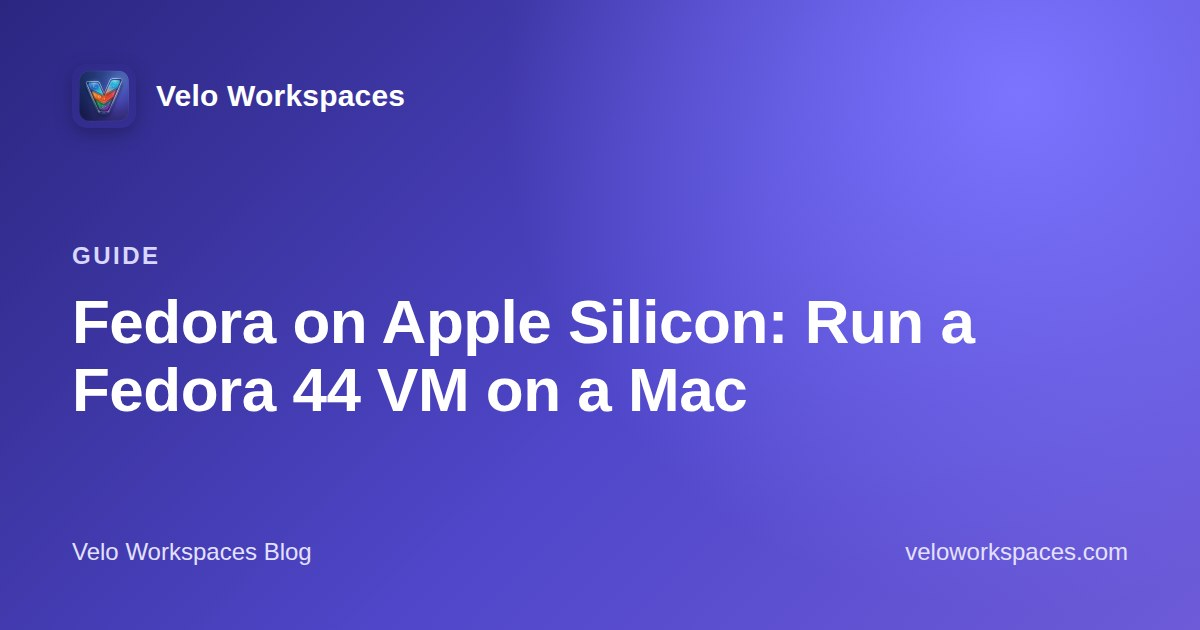
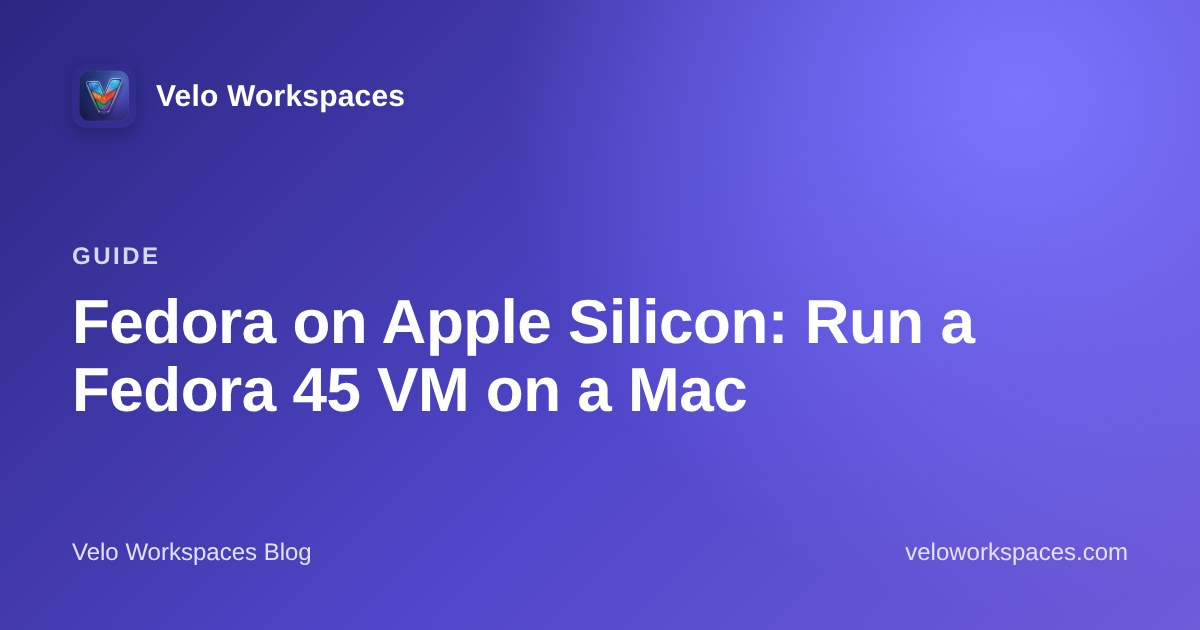
Fedora 45 in the catalog copy: home, support FAQ and the two Fedora posts
For the app update that makes Fedora 45 the recommended release and keeps 44.
Screenshot captions and alt text still say 44, which is what they show, and
the kickstart guide says so. Sitemap dates: the localized pages changed in
substance, and Laterwise's constant now matches the date already published.

Claude-Session: https://claude.ai/code/session_014cbiM6yJ1wpfjF88T3VKNy

diff --git a/blog/fedora-vm-mac-automatic-install/index.html b/blog/fedora-vm-mac-automatic-install/index.html
@@ -4,7 +4,7 @@
 <meta charset="utf-8">
 <meta name="viewport" content="width=device-width, initial-scale=1">
 <title>Fedora VM on a Mac: Automatic Kickstart Install Walkthrough</title>
-<meta name="description" content="Step by step with screenshots: install Fedora 44 Server in Velo Workspaces with a kickstart it writes for you, then sign in over SSH. Rocky Linux too.">
+<meta name="description" content="Step by step with screenshots: install Fedora 45 Server in Velo Workspaces with a kickstart it writes for you, then sign in over SSH. Rocky Linux too.">
 <link rel="canonical" href="https://www.veloworkspaces.com/blog/fedora-vm-mac-automatic-install/">
 <link rel="icon" type="image/png" href="/assets/icon.png">
 <link rel="stylesheet" href="/assets/style.css?v=6">
@@ -12,7 +12,7 @@
 <meta property="og:type" content="article">
 <meta property="og:site_name" content="Velo Workspaces">
 <meta property="og:title" content="Fedora VM on a Mac: Automatic Kickstart Install Walkthrough">
-<meta property="og:description" content="Step by step with screenshots: install Fedora 44 Server in Velo Workspaces with a kickstart it writes for you, then sign in over SSH. Rocky Linux too.">
+<meta property="og:description" content="Step by step with screenshots: install Fedora 45 Server in Velo Workspaces with a kickstart it writes for you, then sign in over SSH. Rocky Linux too.">
 <meta property="og:url" content="https://www.veloworkspaces.com/blog/fedora-vm-mac-automatic-install/">
 <meta property="og:image" content="https://www.veloworkspaces.com/assets/og/fedora-vm-mac-automatic-install.jpg">
 <meta property="og:image:width" content="1200">
@@ -20,7 +20,7 @@
 <meta property="og:image:alt" content="Install Fedora Server in a Mac VM with an Automatic Kickstart">
 <meta name="twitter:card" content="summary_large_image">
 <meta property="article:published_time" content="2026-09-29">
-<meta property="article:modified_time" content="2026-10-02">
+<meta property="article:modified_time" content="2026-11-16">
 <meta property="article:author" content="Gaoliang Luo">
 <script type="application/ld+json">
 {
@@ -30,13 +30,13 @@
       "@type": "BlogPosting",
       "headline": "Fedora VM on a Mac: Automatic Kickstart Install Walkthrough",
       "name": "Install Fedora Server in a Mac VM with an Automatic Kickstart",
-      "description": "Step by step with screenshots: install Fedora 44 Server in Velo Workspaces with a kickstart it writes for you, then sign in over SSH. Rocky Linux too.",
+      "description": "Step by step with screenshots: install Fedora 45 Server in Velo Workspaces with a kickstart it writes for you, then sign in over SSH. Rocky Linux too.",
       "image": [
         "https://www.veloworkspaces.com/assets/og/fedora-vm-mac-automatic-install.jpg",
         "https://www.veloworkspaces.com/assets/blog/guides/fedora/terminal.webp"
       ],
       "datePublished": "2026-09-29",
-      "dateModified": "2026-10-02",
+      "dateModified": "2026-11-16",
       "author": {
         "@type": "Person",
         "name": "Gaoliang Luo",
@@ -114,8 +114,8 @@
       <div class="article-header">
         <span class="eyebrow">Step-by-step guide</span>
         <h1>Install Fedora Server in a Mac VM with an Automatic Kickstart</h1>
-        <p class="article-lede">Fedora's Anaconda installer can run from a kickstart file without asking anything. Velo Workspaces writes that file for you, from the account you enter and your Mac's settings. Here's a Fedora 44 Server install from start to finish. Rocky Linux works the same way.</p>
-        <p class="article-meta">By Gaoliang Luo · Published <time datetime="2026-09-29">September 29, 2026</time> · Updated <time datetime="2026-10-02">October 2, 2026</time><span class="article-readtime">2 min read</span></p>
+        <p class="article-lede">Fedora's Anaconda installer can run from a kickstart file without asking anything. Velo Workspaces writes that file for you, from the account you enter and your Mac's settings. Here's a Fedora Server install from start to finish, with screenshots from Fedora 44; Fedora 45, now the newest release, takes the same steps. Rocky Linux works the same way.</p>
+        <p class="article-meta">By Gaoliang Luo · Published <time datetime="2026-09-29">September 29, 2026</time> · Updated <time datetime="2026-11-16">November 16, 2026</time><span class="article-readtime">2 min read</span></p>
       </div>
       <figure class="shot article-hero">
         <a class="shot-frame" href="/assets/blog/guides/fedora/terminal.webp"><img src="/assets/blog/guides/fedora/terminal.webp" width="892" height="647" alt="A Fedora 44 Server workspace in Velo Workspaces, with its console and the built-in terminal signed in" fetchpriority="high"><span class="shot-zoom">Click to enlarge</span></a>
@@ -141,7 +141,7 @@
     <div class="container article-body">
       <dl class="guide-facts">
         <div><dt>Your time</dt><dd>About 2 minutes<span>Anaconda runs on its own</span></dd></div>
-        <div><dt>Download</dt><dd>About 1.3 GB<span>Fedora 44 Server netinst ISO</span></dd></div>
+        <div><dt>Download</dt><dd>About 1.3 GB<span>Fedora Server netinst ISO</span></dd></div>
         <div><dt>You get</dt><dd>Fedora Server<span>account, keys and Cockpit</span></dd></div>
         <div><dt>Same steps for</dt><dd>Rocky Linux<span>9 and 10, minimal or DVD</span></dd></div>
       </dl>
@@ -159,7 +159,7 @@
 
       <section class="guide-step">
       <h2 id="choose-fedora-server">Choose Fedora Server</h2>
-      <p>Choose <strong>Fedora</strong> and release 44. There are three ISOs. <strong>Server</strong> and <strong>Everything</strong> are network installers that Velo Workspaces can drive on its own; <strong>Workstation</strong> is a live desktop image you install by hand. Download Server.</p>
+      <p>Choose <strong>Fedora</strong> and a release: 45 is the newest, and 44 is still offered (the screenshots here show 44). There are three ISOs. <strong>Server</strong> and <strong>Everything</strong> are network installers that Velo Workspaces can drive on its own; <strong>Workstation</strong> is a live desktop image you install by hand. Download Server.</p>
       <figure class="shot">
         <a class="shot-frame" href="/assets/blog/guides/fedora/choose-installer.webp"><img src="/assets/blog/guides/fedora/choose-installer.webp" width="644" height="600" alt="Choose an Installer step with Fedora 44 Server, Everything and Workstation ISOs" loading="lazy" decoding="async"><span class="shot-zoom">Click to enlarge</span></a>
         <figcaption><span>Fedora 44's Server, Everything and Workstation images, from download.fedoraproject.org.</span></figcaption>

diff --git a/blog/fedora-on-apple-silicon/index.html b/blog/fedora-on-apple-silicon/index.html
@@ -3,16 +3,16 @@
 <head>
 <meta charset="utf-8">
 <meta name="viewport" content="width=device-width, initial-scale=1">
-<title>Fedora on Apple Silicon: Run a Fedora 44 VM on a Mac</title>
-<meta name="description" content="Run Fedora 44 on an M-series Mac from the Cloud Base image or a hands-free Server install, and what&#x27;s different: SELinux, NetworkManager and Rosetta.">
+<title>Fedora on Apple Silicon: Run a Fedora 45 VM on a Mac</title>
+<meta name="description" content="Run Fedora 45 on an M-series Mac from the Cloud Base image or a hands-free Server install, and what&#x27;s different: SELinux, NetworkManager and Rosetta.">
 <link rel="canonical" href="https://www.veloworkspaces.com/blog/fedora-on-apple-silicon/">
 <link rel="icon" type="image/png" href="/assets/icon.png">
 <link rel="stylesheet" href="/assets/style.css?v=6">
 <link rel="alternate" type="application/rss+xml" title="Velo Workspaces Blog" href="https://www.veloworkspaces.com/blog/feed.xml">
 <meta property="og:type" content="article">
 <meta property="og:site_name" content="Velo Workspaces">
-<meta property="og:title" content="Fedora on Apple Silicon: Run a Fedora 44 VM on a Mac">
-<meta property="og:description" content="Run Fedora 44 on an M-series Mac from the Cloud Base image or a hands-free Server install, and what&#x27;s different: SELinux, NetworkManager and Rosetta.">
+<meta property="og:title" content="Fedora on Apple Silicon: Run a Fedora 45 VM on a Mac">
+<meta property="og:description" content="Run Fedora 45 on an M-series Mac from the Cloud Base image or a hands-free Server install, and what&#x27;s different: SELinux, NetworkManager and Rosetta.">
 <meta property="og:url" content="https://www.veloworkspaces.com/blog/fedora-on-apple-silicon/">
 <meta property="og:image" content="https://www.veloworkspaces.com/assets/og/fedora-on-apple-silicon.jpg">
 <meta property="og:image:width" content="1200">
@@ -20,7 +20,7 @@
 <meta property="og:image:alt" content="Running Fedora on Apple Silicon: What&#x27;s Different">
 <meta name="twitter:card" content="summary_large_image">
 <meta property="article:published_time" content="2026-09-20">
-<meta property="article:modified_time" content="2026-10-02">
+<meta property="article:modified_time" content="2026-11-16">
 <meta property="article:author" content="Gaoliang Luo">
 <script type="application/ld+json">
 {
@@ -28,12 +28,12 @@
   "@graph": [
     {
       "@type": "BlogPosting",
-      "headline": "Fedora on Apple Silicon: Run a Fedora 44 VM on a Mac",
+      "headline": "Fedora on Apple Silicon: Run a Fedora 45 VM on a Mac",
       "name": "Running Fedora on Apple Silicon: What's Different",
-      "description": "Run Fedora 44 on an M-series Mac from the Cloud Base image or a hands-free Server install, and what's different: SELinux, NetworkManager and Rosetta.",
+      "description": "Run Fedora 45 on an M-series Mac from the Cloud Base image or a hands-free Server install, and what's different: SELinux, NetworkManager and Rosetta.",
       "image": "https://www.veloworkspaces.com/assets/og/fedora-on-apple-silicon.jpg",
       "datePublished": "2026-09-20",
-      "dateModified": "2026-10-02",
+      "dateModified": "2026-11-16",
       "author": {
         "@type": "Person",
         "name": "Gaoliang Luo",
@@ -112,7 +112,7 @@
         <span class="eyebrow">Guide</span>
         <h1>Running Fedora on Apple Silicon: What's Different</h1>
         <p class="article-lede">Third in the series on specific distributions. Fedora runs natively on arm64 like Ubuntu and Debian, installs without a single question in Velo Workspaces 1.2, and has defaults that differ from both in ways that matter.</p>
-        <p class="article-meta">By Gaoliang Luo · Published <time datetime="2026-09-20">September 20, 2026</time> · Updated <time datetime="2026-10-02">October 2, 2026</time><span class="article-readtime">3 min read</span></p>
+        <p class="article-meta">By Gaoliang Luo · Published <time datetime="2026-09-20">September 20, 2026</time> · Updated <time datetime="2026-11-16">November 16, 2026</time><span class="article-readtime">3 min read</span></p>
       </div>
       <details class="article-toc">
         <summary>In this article</summary>
@@ -134,11 +134,11 @@
         <p><strong>Step by step, with screenshots:</strong> <a href="/blog/fedora-vm-mac-automatic-install/">install Fedora Server with an automatic kickstart</a>, from download to an SSH session.</p>
       </div>
       <h2 id="native-arm64-and-only-arm64-on-arm">Native arm64, and only arm64 on ARM</h2>
-      <p>Fedora on an Apple silicon Mac runs natively on arm64, like <a href="/blog/ubuntu-on-apple-silicon/">Ubuntu</a> and <a href="/blog/debian-on-apple-silicon/">Debian</a>. Fedora Linux 44 ships for x86_64 and aarch64. 32-bit ARM was dropped some releases ago, so on ARM there's one build to choose.</p>
+      <p>Fedora on an Apple silicon Mac runs natively on arm64, like <a href="/blog/ubuntu-on-apple-silicon/">Ubuntu</a> and <a href="/blog/debian-on-apple-silicon/">Debian</a>. Fedora Linux 45 ships for x86_64 and aarch64. 32-bit ARM was dropped some releases ago, so on ARM there's one build to choose.</p>
 
       <h2 id="three-ways-in">Three ways in</h2>
       <ul>
-        <li><strong>Cloud image.</strong> Fedora 44 Cloud Base, downloaded from fedoraproject.org and checked against Fedora's published checksum. cloud-init creates your account and adds this Mac's SSH key on first boot, and it's ready in about a minute. The quickest way to a headless Fedora.</li>
+        <li><strong>Cloud image.</strong> Fedora 45 Cloud Base (44 is still offered), downloaded from fedoraproject.org and checked against Fedora's published checksum. cloud-init creates your account and adds this Mac's SSH key on first boot, and it's ready in about a minute. The quickest way to a headless Fedora.</li>
         <li><strong>Automatic install.</strong> Choose <strong>Installer image</strong>, pick Fedora Server or Everything, and leave <strong>Automatic installation</strong> on. Velo Workspaces writes a kickstart file to a small disk labelled <code>OEMDRV</code>, which Anaconda picks up by itself. There's no confirmation step at all: the install runs start to finish and the workspace restarts into Fedora.</li>
         <li><strong>Workstation, by hand.</strong> Fedora Workstation's live image doesn't support kickstart, so it installs interactively in the workspace's display. Pick it when you want the GNOME desktop.</li>
       </ul>

diff --git a/ja/support/index.html b/ja/support/index.html
@@ -39,7 +39,7 @@
       "name": "クラウドイメージから作成できる Linux は？",
       "acceptedAnswer": {
         "@type": "Answer",
-        "text": "Ubuntu 26.04 / 24.04 LTS、Debian 13 / 12、Fedora 44 Cloud Base、Rocky Linux 10 / 9 です。Velo Workspaces が配布元の公式イメージをダウンロードし、初回起動時に cloud-init がアカウントとこの Mac の SSH 鍵を設定します。通常は約 1 分で使えます。"
+        "text": "Ubuntu 26.04 / 24.04 LTS、Debian 13 / 12、Fedora 45 / 44 Cloud Base、Rocky Linux 10 / 9 です。Velo Workspaces が配布元の公式イメージをダウンロードし、初回起動時に cloud-init がアカウントとこの Mac の SSH 鍵を設定します。通常は約 1 分で使えます。"
       }
     },
     {
@@ -230,7 +230,7 @@
         <details class="faq-item">
           <summary>クラウドイメージから作成できる Linux は？</summary>
           <div class="faq-answer">
-            <p>Ubuntu 26.04 / 24.04 LTS、Debian 13 / 12、Fedora 44 Cloud Base、Rocky Linux 10 / 9 です。アプリは配布元の公式イメージをダウンロードし、Apple の Virtualization フレームワーク用に変換して、ユーザ名、パスワード、この Mac の SSH 鍵、ホスト名を cloud-init に渡します。初回起動時にシステムが自動で設定を行い、選んだディスクサイズまで拡張されます。ダウンロード後、たいてい約 1 分でログインできます。</p>
+            <p>Ubuntu 26.04 / 24.04 LTS、Debian 13 / 12、Fedora 45 / 44 Cloud Base、Rocky Linux 10 / 9 です。アプリは配布元の公式イメージをダウンロードし、Apple の Virtualization フレームワーク用に変換して、ユーザ名、パスワード、この Mac の SSH 鍵、ホスト名を cloud-init に渡します。初回起動時にシステムが自動で設定を行い、選んだディスクサイズまで拡張されます。ダウンロード後、たいてい約 1 分でログインできます。</p>
           </div>
         </details>
         <details class="faq-item">

diff --git a/fr/support/index.html b/fr/support/index.html
@@ -39,7 +39,7 @@
       "name": "Quels systèmes Linux puis-je créer à partir d'une image cloud ?",
       "acceptedAnswer": {
         "@type": "Answer",
-        "text": "Ubuntu 26.04 et 24.04 LTS, Debian 13 et 12, Fedora 44 Cloud Base, et Rocky Linux 10 et 9. Velo Workspaces télécharge l'image officielle de l'éditeur, et cloud-init configure votre compte et la clé SSH de ce Mac au premier démarrage, en général en une minute environ."
+        "text": "Ubuntu 26.04 et 24.04 LTS, Debian 13 et 12, Fedora 45 et 44 Cloud Base, et Rocky Linux 10 et 9. Velo Workspaces télécharge l'image officielle de l'éditeur, et cloud-init configure votre compte et la clé SSH de ce Mac au premier démarrage, en général en une minute environ."
       }
     },
     {
@@ -230,7 +230,7 @@
         <details class="faq-item">
           <summary>Quels systèmes Linux puis-je créer à partir d'une image cloud ?</summary>
           <div class="faq-answer">
-            <p>Ubuntu 26.04 et 24.04 LTS, Debian 13 et 12, Fedora 44 Cloud Base, et Rocky Linux 10 et 9. L'app télécharge l'image officielle de l'éditeur, la convertit pour le framework Virtualization d'Apple et transmet à cloud-init votre nom d'utilisateur, votre mot de passe, la clé SSH de ce Mac et un nom d'hôte. Au premier démarrage, le système se configure seul et s'étend à la taille de disque choisie. Une fois le téléchargement terminé, il est en général prêt en une minute environ.</p>
+            <p>Ubuntu 26.04 et 24.04 LTS, Debian 13 et 12, Fedora 45 et 44 Cloud Base, et Rocky Linux 10 et 9. L'app télécharge l'image officielle de l'éditeur, la convertit pour le framework Virtualization d'Apple et transmet à cloud-init votre nom d'utilisateur, votre mot de passe, la clé SSH de ce Mac et un nom d'hôte. Au premier démarrage, le système se configure seul et s'étend à la taille de disque choisie. Une fois le téléchargement terminé, il est en général prêt en une minute environ.</p>
           </div>
         </details>
         <details class="faq-item">

diff --git a/ko/support/index.html b/ko/support/index.html
@@ -39,7 +39,7 @@
       "name": "클라우드 이미지로 만들 수 있는 Linux는 무엇인가요?",
       "acceptedAnswer": {
         "@type": "Answer",
-        "text": "Ubuntu 26.04·24.04 LTS, Debian 13·12, Fedora 44 Cloud Base, Rocky Linux 10·9입니다. Velo Workspaces가 배포처의 공식 이미지를 내려받고, 처음 부팅할 때 cloud-init이 계정과 이 Mac의 SSH 키를 설정합니다. 보통 1분 정도 걸립니다."
+        "text": "Ubuntu 26.04·24.04 LTS, Debian 13·12, Fedora 45·44 Cloud Base, Rocky Linux 10·9입니다. Velo Workspaces가 배포처의 공식 이미지를 내려받고, 처음 부팅할 때 cloud-init이 계정과 이 Mac의 SSH 키를 설정합니다. 보통 1분 정도 걸립니다."
       }
     },
     {
@@ -230,7 +230,7 @@
         <details class="faq-item">
           <summary>클라우드 이미지로 만들 수 있는 Linux는 무엇인가요?</summary>
           <div class="faq-answer">
-            <p>Ubuntu 26.04·24.04 LTS, Debian 13·12, Fedora 44 Cloud Base, Rocky Linux 10·9입니다. 앱이 배포처의 공식 이미지를 내려받아 Apple Virtualization 프레임워크용으로 변환하고, 사용자 이름, 암호, 이 Mac의 SSH 키, 호스트 이름을 cloud-init에 넘깁니다. 처음 부팅할 때 시스템이 스스로 설정을 마치고 선택한 디스크 크기까지 늘어납니다. 다운로드가 끝나면 보통 1분 정도 뒤 로그인할 수 있습니다.</p>
+            <p>Ubuntu 26.04·24.04 LTS, Debian 13·12, Fedora 45·44 Cloud Base, Rocky Linux 10·9입니다. 앱이 배포처의 공식 이미지를 내려받아 Apple Virtualization 프레임워크용으로 변환하고, 사용자 이름, 암호, 이 Mac의 SSH 키, 호스트 이름을 cloud-init에 넘깁니다. 처음 부팅할 때 시스템이 스스로 설정을 마치고 선택한 디스크 크기까지 늘어납니다. 다운로드가 끝나면 보통 1분 정도 뒤 로그인할 수 있습니다.</p>
           </div>
         </details>
         <details class="faq-item">

diff --git a/de/support/index.html b/de/support/index.html
@@ -39,7 +39,7 @@
       "name": "Welche Linux-Systeme kann ich aus einem Cloud-Image erstellen?",
       "acceptedAnswer": {
         "@type": "Answer",
-        "text": "Ubuntu 26.04 und 24.04 LTS, Debian 13 und 12, Fedora 44 Cloud Base sowie Rocky Linux 10 und 9. Velo Workspaces lädt das offizielle Image des Herstellers, und cloud-init richtet beim ersten Start Ihr Konto und den SSH-Schlüssel dieses Macs ein, meist in etwa einer Minute."
+        "text": "Ubuntu 26.04 und 24.04 LTS, Debian 13 und 12, Fedora 45 und 44 Cloud Base sowie Rocky Linux 10 und 9. Velo Workspaces lädt das offizielle Image des Herstellers, und cloud-init richtet beim ersten Start Ihr Konto und den SSH-Schlüssel dieses Macs ein, meist in etwa einer Minute."
       }
     },
     {
@@ -230,7 +230,7 @@
         <details class="faq-item">
           <summary>Welche Linux-Systeme kann ich aus einem Cloud-Image erstellen?</summary>
           <div class="faq-answer">
-            <p>Ubuntu 26.04 und 24.04 LTS, Debian 13 und 12, Fedora 44 Cloud Base sowie Rocky Linux 10 und 9. Die App lädt das offizielle Image des Herstellers, bereitet es für Apples Virtualization-Framework auf und übergibt cloud-init Ihren Benutzernamen, Ihr Passwort, den SSH-Schlüssel dieses Macs und einen Hostnamen. Beim ersten Start richtet sich das System selbst ein und wächst auf die gewählte Festplattengröße. Nach dem Download ist es meist in etwa einer Minute bereit zur Anmeldung.</p>
+            <p>Ubuntu 26.04 und 24.04 LTS, Debian 13 und 12, Fedora 45 und 44 Cloud Base sowie Rocky Linux 10 und 9. Die App lädt das offizielle Image des Herstellers, bereitet es für Apples Virtualization-Framework auf und übergibt cloud-init Ihren Benutzernamen, Ihr Passwort, den SSH-Schlüssel dieses Macs und einen Hostnamen. Beim ersten Start richtet sich das System selbst ein und wächst auf die gewählte Festplattengröße. Nach dem Download ist es meist in etwa einer Minute bereit zur Anmeldung.</p>
           </div>
         </details>
         <details class="faq-item">

diff --git a/es/support/index.html b/es/support/index.html
@@ -39,7 +39,7 @@
       "name": "¿Qué sistemas Linux puedo crear desde una imagen cloud?",
       "acceptedAnswer": {
         "@type": "Answer",
-        "text": "Ubuntu 26.04 y 24.04 LTS, Debian 13 y 12, Fedora 44 Cloud Base y Rocky Linux 10 y 9. Velo Workspaces descarga la imagen oficial del fabricante y cloud-init configura tu cuenta y la clave SSH de este Mac en el primer arranque, normalmente en un minuto aproximadamente."
+        "text": "Ubuntu 26.04 y 24.04 LTS, Debian 13 y 12, Fedora 45 y 44 Cloud Base y Rocky Linux 10 y 9. Velo Workspaces descarga la imagen oficial del fabricante y cloud-init configura tu cuenta y la clave SSH de este Mac en el primer arranque, normalmente en un minuto aproximadamente."
       }
     },
     {
@@ -230,7 +230,7 @@
         <details class="faq-item">
           <summary>¿Qué sistemas Linux puedo crear desde una imagen cloud?</summary>
           <div class="faq-answer">
-            <p>Ubuntu 26.04 y 24.04 LTS, Debian 13 y 12, Fedora 44 Cloud Base y Rocky Linux 10 y 9. La app descarga la imagen oficial del fabricante, la convierte para el framework Virtualization de Apple y pasa a cloud-init tu nombre de usuario, tu contraseña, la clave SSH de este Mac y un nombre de host. En el primer arranque el sistema se configura solo y crece hasta el tamaño de disco que elegiste. Terminada la descarga, suele estar listo para iniciar sesión en un minuto aproximadamente.</p>
+            <p>Ubuntu 26.04 y 24.04 LTS, Debian 13 y 12, Fedora 45 y 44 Cloud Base y Rocky Linux 10 y 9. La app descarga la imagen oficial del fabricante, la convierte para el framework Virtualization de Apple y pasa a cloud-init tu nombre de usuario, tu contraseña, la clave SSH de este Mac y un nombre de host. En el primer arranque el sistema se configura solo y crece hasta el tamaño de disco que elegiste. Terminada la descarga, suele estar listo para iniciar sesión en un minuto aproximadamente.</p>
           </div>
         </details>
         <details class="faq-item">

diff --git a/pt-br/support/index.html b/pt-br/support/index.html
@@ -39,7 +39,7 @@
       "name": "Quais sistemas Linux posso criar a partir de uma imagem de nuvem?",
       "acceptedAnswer": {
         "@type": "Answer",
-        "text": "Ubuntu 26.04 e 24.04 LTS, Debian 13 e 12, Fedora 44 Cloud Base e Rocky Linux 10 e 9. O Velo Workspaces baixa a imagem oficial do fabricante e o cloud-init configura sua conta e a chave SSH deste Mac na primeira inicialização, geralmente em cerca de um minuto."
+        "text": "Ubuntu 26.04 e 24.04 LTS, Debian 13 e 12, Fedora 45 e 44 Cloud Base e Rocky Linux 10 e 9. O Velo Workspaces baixa a imagem oficial do fabricante e o cloud-init configura sua conta e a chave SSH deste Mac na primeira inicialização, geralmente em cerca de um minuto."
       }
     },
     {
@@ -230,7 +230,7 @@
         <details class="faq-item">
           <summary>Quais sistemas Linux posso criar a partir de uma imagem de nuvem?</summary>
           <div class="faq-answer">
-            <p>Ubuntu 26.04 e 24.04 LTS, Debian 13 e 12, Fedora 44 Cloud Base e Rocky Linux 10 e 9. O app baixa a imagem oficial do fabricante, converte-a para o framework Virtualization da Apple e passa ao cloud-init seu nome de usuário, sua senha, a chave SSH deste Mac e um nome de host. Na primeira inicialização o sistema se configura sozinho e cresce até o tamanho de disco escolhido. Depois do download, costuma ficar pronto para login em cerca de um minuto.</p>
+            <p>Ubuntu 26.04 e 24.04 LTS, Debian 13 e 12, Fedora 45 e 44 Cloud Base e Rocky Linux 10 e 9. O app baixa a imagem oficial do fabricante, converte-a para o framework Virtualization da Apple e passa ao cloud-init seu nome de usuário, sua senha, a chave SSH deste Mac e um nome de host. Na primeira inicialização o sistema se configura sozinho e cresce até o tamanho de disco escolhido. Depois do download, costuma ficar pronto para login em cerca de um minuto.</p>
           </div>
         </details>
         <details class="faq-item">

diff --git a/it/support/index.html b/it/support/index.html
@@ -39,7 +39,7 @@
       "name": "Quali sistemi Linux posso creare da un’immagine cloud?",
       "acceptedAnswer": {
         "@type": "Answer",
-        "text": "Ubuntu 26.04 e 24.04 LTS, Debian 13 e 12, Fedora 44 Cloud Base e Rocky Linux 10 e 9. Velo Workspaces scarica l’immagine ufficiale del produttore e cloud-init configura il tuo account e la chiave SSH di questo Mac al primo avvio, di solito in circa un minuto."
+        "text": "Ubuntu 26.04 e 24.04 LTS, Debian 13 e 12, Fedora 45 e 44 Cloud Base e Rocky Linux 10 e 9. Velo Workspaces scarica l’immagine ufficiale del produttore e cloud-init configura il tuo account e la chiave SSH di questo Mac al primo avvio, di solito in circa un minuto."
       }
     },
     {
@@ -230,7 +230,7 @@
         <details class="faq-item">
           <summary>Quali sistemi Linux posso creare da un’immagine cloud?</summary>
           <div class="faq-answer">
-            <p>Ubuntu 26.04 e 24.04 LTS, Debian 13 e 12, Fedora 44 Cloud Base e Rocky Linux 10 e 9. L’app scarica l’immagine ufficiale del produttore, la converte per il framework Virtualization di Apple e passa a cloud-init nome utente, password, la chiave SSH di questo Mac e un nome host. Al primo avvio il sistema si configura da solo e si espande fino alla dimensione del disco scelta. Terminato il download, di solito è pronto per l’accesso in circa un minuto.</p>
+            <p>Ubuntu 26.04 e 24.04 LTS, Debian 13 e 12, Fedora 45 e 44 Cloud Base e Rocky Linux 10 e 9. L’app scarica l’immagine ufficiale del produttore, la converte per il framework Virtualization di Apple e passa a cloud-init nome utente, password, la chiave SSH di questo Mac e un nome host. Al primo avvio il sistema si configura da solo e si espande fino alla dimensione del disco scelta. Terminato il download, di solito è pronto per l’accesso in circa un minuto.</p>
           </div>
         </details>
         <details class="faq-item">

diff --git a/support/index.html b/support/index.html
@@ -39,7 +39,7 @@
       "name": "Which Linux systems can I create from a cloud image?",
       "acceptedAnswer": {
         "@type": "Answer",
-        "text": "Ubuntu 26.04 and 24.04 LTS, Debian 13 and 12, Fedora 44 Cloud Base, and Rocky Linux 10 and 9. Velo Workspaces downloads the vendor's official image and cloud-init sets up your account and this Mac's SSH key on first boot, usually in about a minute."
+        "text": "Ubuntu 26.04 and 24.04 LTS, Debian 13 and 12, Fedora 45 and 44 Cloud Base, and Rocky Linux 10 and 9. Velo Workspaces downloads the vendor's official image and cloud-init sets up your account and this Mac's SSH key on first boot, usually in about a minute."
       }
     },
     {
@@ -230,7 +230,7 @@
         <details class="faq-item">
           <summary>Which Linux systems can I create from a cloud image?</summary>
           <div class="faq-answer">
-            <p>Ubuntu 26.04 and 24.04 LTS, Debian 13 and 12, Fedora 44 Cloud Base, and Rocky Linux 10 and 9. The app downloads the vendor's official image, converts it for Apple's Virtualization framework, and passes cloud-init your username, password, this Mac's SSH key and a hostname. On first boot the system sets itself up and grows to the disk size you chose. Once the download is done, it's usually ready to sign in to in about a minute.</p>
+            <p>Ubuntu 26.04 and 24.04 LTS, Debian 13 and 12, Fedora 45 and 44 Cloud Base, and Rocky Linux 10 and 9. The app downloads the vendor's official image, converts it for Apple's Virtualization framework, and passes cloud-init your username, password, this Mac's SSH key and a hostname. On first boot the system sets itself up and grows to the disk size you chose. Once the download is done, it's usually ready to sign in to in about a minute.</p>
           </div>
         </details>
         <details class="faq-item">

diff --git a/zh-hant/support/index.html b/zh-hant/support/index.html
@@ -39,7 +39,7 @@
       "name": "哪些 Linux 可以用雲端映像建立？",
       "acceptedAnswer": {
         "@type": "Answer",
-        "text": "Ubuntu 26.04 與 24.04 LTS、Debian 13 與 12、Fedora 44 Cloud Base，以及 Rocky Linux 10 與 9。Velo Workspaces 下載發行方的官方映像，cloud-init 在首次開機時設定你的帳號與這台 Mac 的 SSH 金鑰，通常約一分鐘即可完成。"
+        "text": "Ubuntu 26.04 與 24.04 LTS、Debian 13 與 12、Fedora 45 與 44 Cloud Base，以及 Rocky Linux 10 與 9。Velo Workspaces 下載發行方的官方映像，cloud-init 在首次開機時設定你的帳號與這台 Mac 的 SSH 金鑰，通常約一分鐘即可完成。"
       }
     },
     {
@@ -230,7 +230,7 @@
         <details class="faq-item">
           <summary>哪些 Linux 可以用雲端映像建立？</summary>
           <div class="faq-answer">
-            <p>Ubuntu 26.04 與 24.04 LTS、Debian 13 與 12、Fedora 44 Cloud Base，以及 Rocky Linux 10 與 9。App 會下載發行方的官方映像，轉換成 Apple Virtualization 框架可用的格式，並把使用者名稱、密碼、這台 Mac 的 SSH 金鑰與主機名稱交給 cloud-init。首次開機時系統會自行完成設定，並擴展到你選擇的磁碟大小。下載完成後，通常約一分鐘就能登入。</p>
+            <p>Ubuntu 26.04 與 24.04 LTS、Debian 13 與 12、Fedora 45 與 44 Cloud Base，以及 Rocky Linux 10 與 9。App 會下載發行方的官方映像，轉換成 Apple Virtualization 框架可用的格式，並把使用者名稱、密碼、這台 Mac 的 SSH 金鑰與主機名稱交給 cloud-init。首次開機時系統會自行完成設定，並擴展到你選擇的磁碟大小。下載完成後，通常約一分鐘就能登入。</p>
           </div>
         </details>
         <details class="faq-item">

diff --git a/zh-hans/support/index.html b/zh-hans/support/index.html
@@ -39,7 +39,7 @@
       "name": "哪些 Linux 可以用云镜像创建？",
       "acceptedAnswer": {
         "@type": "Answer",
-        "text": "Ubuntu 26.04 和 24.04 LTS、Debian 13 和 12、Fedora 44 Cloud Base，以及 Rocky Linux 10 和 9。Velo Workspaces 下载发行方的官方镜像，cloud-init 在首次启动时设置你的账户和这台 Mac 的 SSH 密钥，通常约一分钟即可完成。"
+        "text": "Ubuntu 26.04 和 24.04 LTS、Debian 13 和 12、Fedora 45 和 44 Cloud Base，以及 Rocky Linux 10 和 9。Velo Workspaces 下载发行方的官方镜像，cloud-init 在首次启动时设置你的账户和这台 Mac 的 SSH 密钥，通常约一分钟即可完成。"
       }
     },
     {
@@ -230,7 +230,7 @@
         <details class="faq-item">
           <summary>哪些 Linux 可以用云镜像创建？</summary>
           <div class="faq-answer">
-            <p>Ubuntu 26.04 和 24.04 LTS、Debian 13 和 12、Fedora 44 Cloud Base，以及 Rocky Linux 10 和 9。App 会下载发行方的官方镜像，转换为 Apple Virtualization 框架可用的格式，并把用户名、密码、这台 Mac 的 SSH 密钥和主机名交给 cloud-init。首次启动时系统会自行完成设置，并扩展到你选择的磁盘大小。下载完成后，通常约一分钟就能登录。</p>
+            <p>Ubuntu 26.04 和 24.04 LTS、Debian 13 和 12、Fedora 45 和 44 Cloud Base，以及 Rocky Linux 10 和 9。App 会下载发行方的官方镜像，转换为 Apple Virtualization 框架可用的格式，并把用户名、密码、这台 Mac 的 SSH 密钥和主机名交给 cloud-init。首次启动时系统会自行完成设置，并扩展到你选择的磁盘大小。下载完成后，通常约一分钟就能登录。</p>
           </div>
         </details>
         <details class="faq-item">
